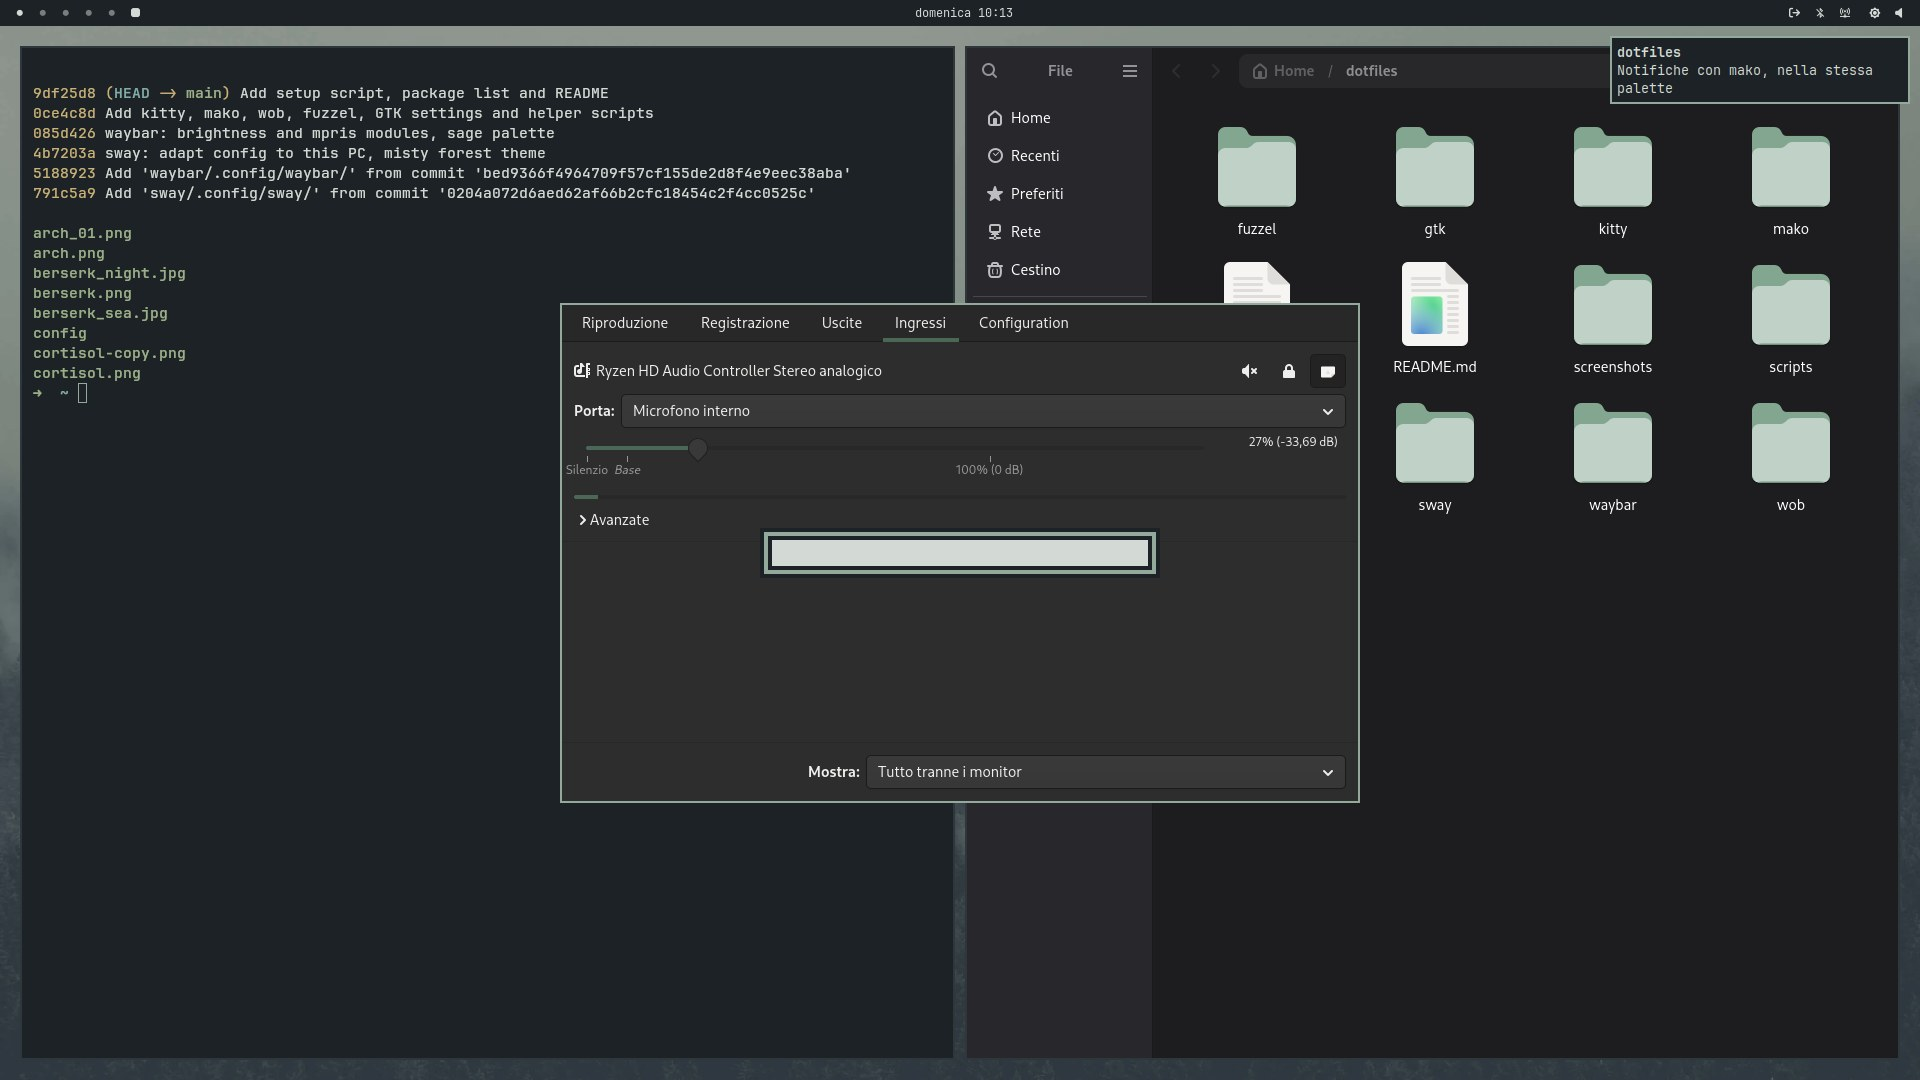
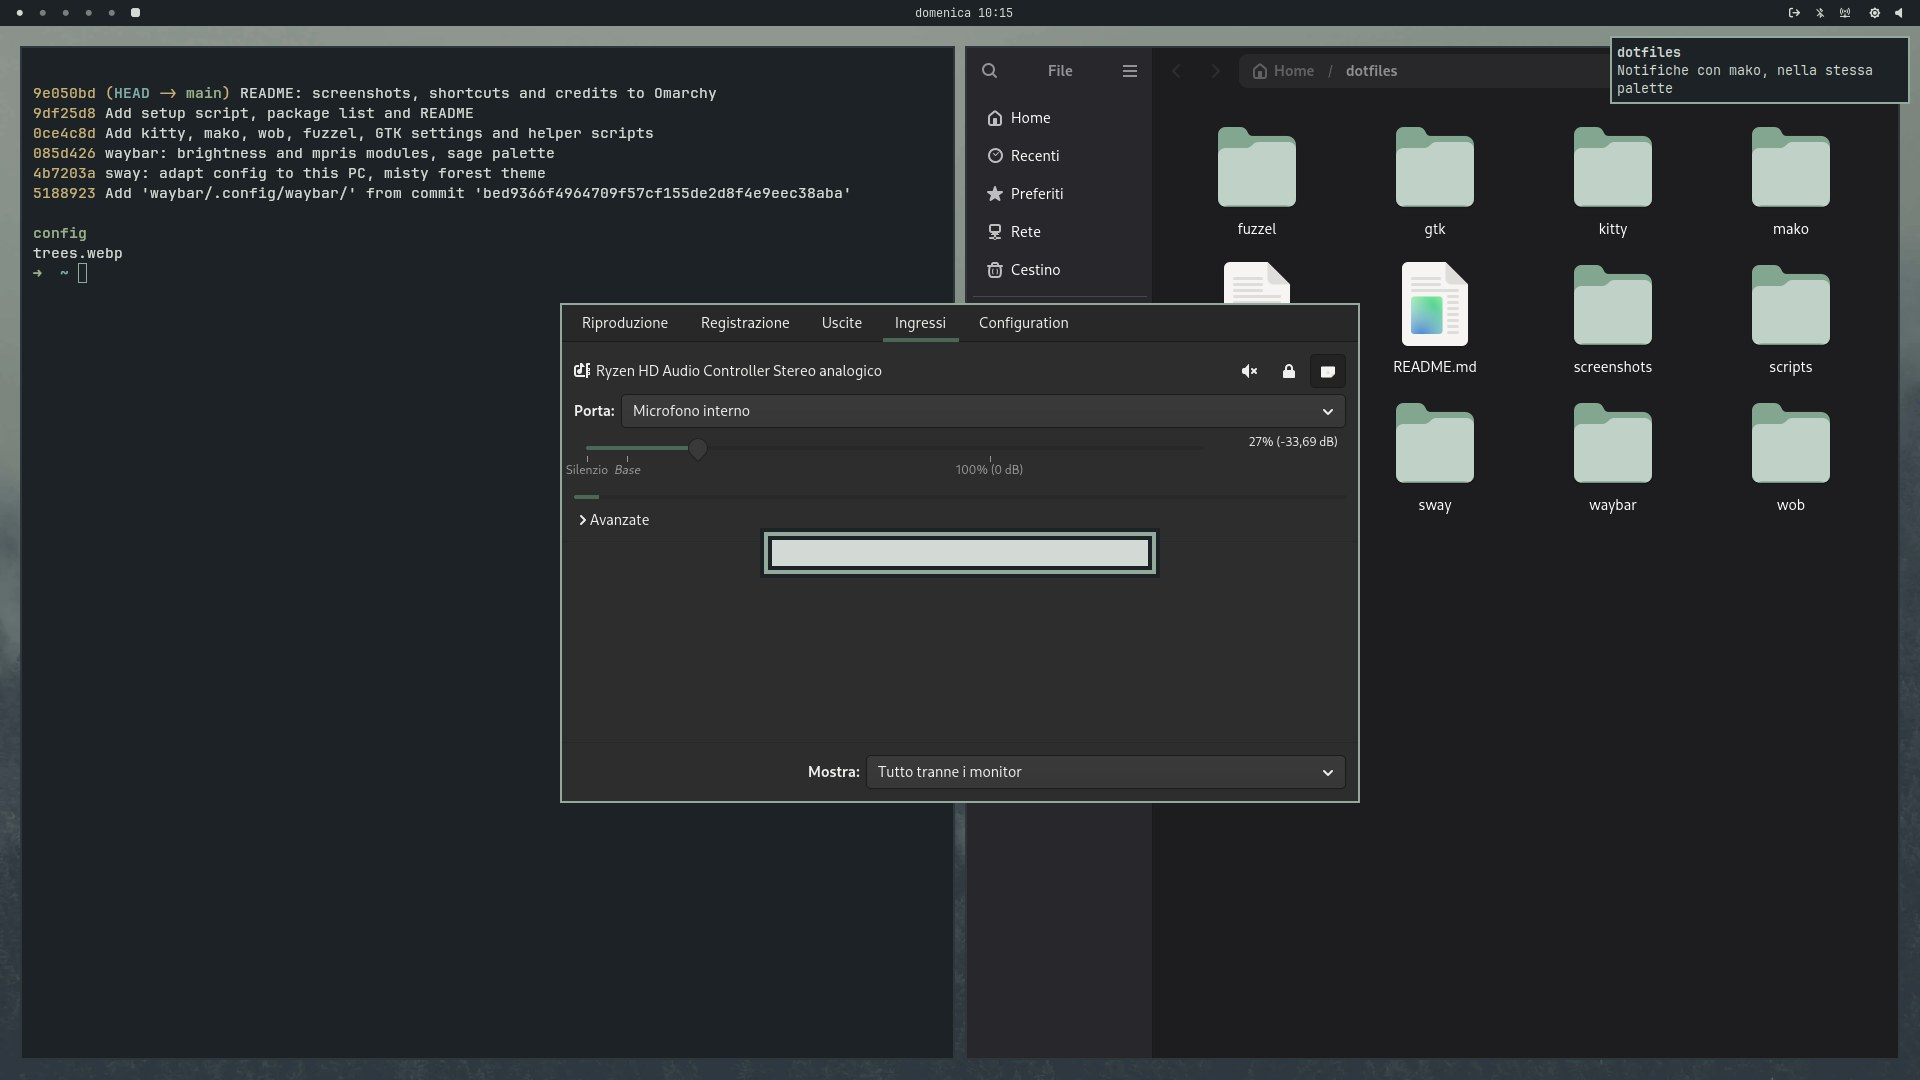
Remove old wallpapers, keep only trees.webp

Changed region(s): [[0.0, 0.0611, 0.4375, 0.1833], [0.0, 0.2139, 0.0938, 0.3667]]

diff --git a/README.md b/README.md
@@ -94,7 +94,6 @@ Per aggiungere un pacchetto: crea `nome/.config/nome/...`, sposta lì il file e 
 ## Crediti
 
 - [Omarchy](https://github.com/basecamp/omarchy): ispirazione generale del setup.
-- Il wallpaper `trees.webp` viene dal tema **Everforest** di Omarchy; anche gli altri wallpaper
-  `omarchy-*` vengono da Omarchy.
+- Il wallpaper `trees.webp` viene dal tema **Everforest** di Omarchy.
 - La configurazione di Waybar (`config.jsonc`, `style.css`) è partita da quella di Omarchy ed è stata
   adattata a sway e a questo PC.
